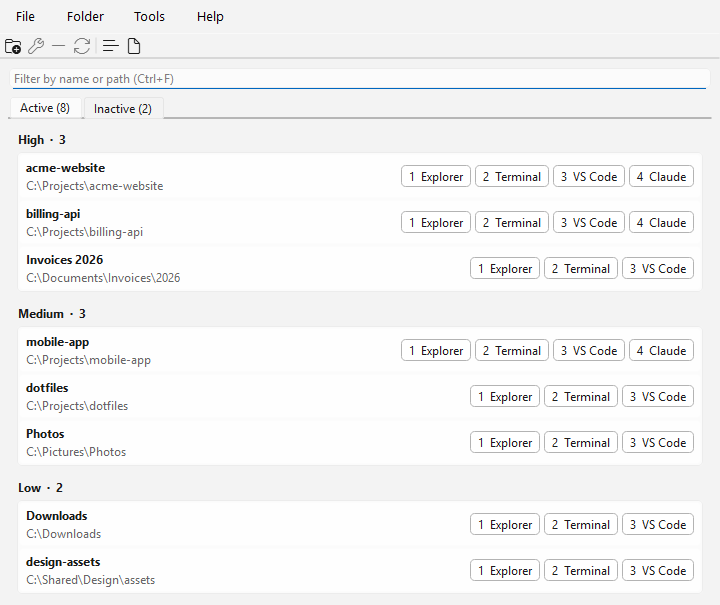
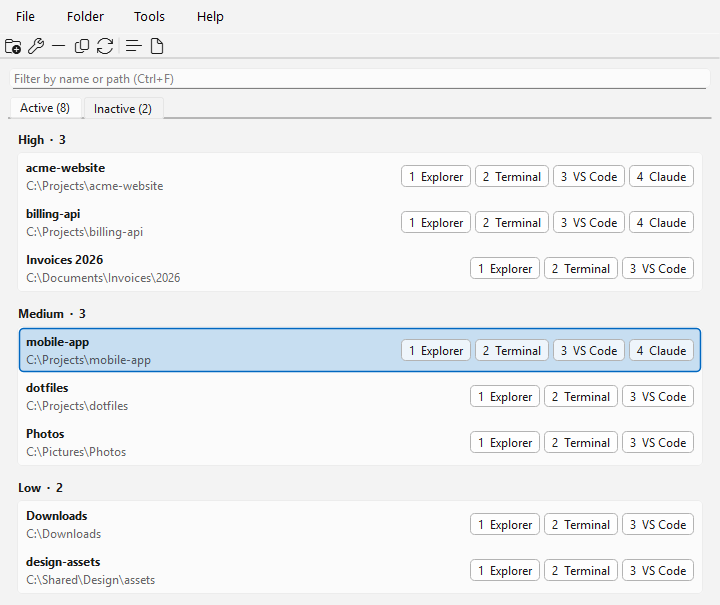
Add Copy path to the toolbar
On macOS the copy icon is drawn in code, like the other toolbar icons.
The Windows screenshot is regenerated.

Claude-Session: https://claude.ai/code/session_01EWrVwRmn16dzDbRohLNdot

Changed region(s): [[0.0, 0.5355, 0.9778, 0.6248], [0.0917, 0.0595, 0.2444, 0.0893], [0.0306, 0.0595, 0.0611, 0.0893]]

diff --git a/src/ui/MainWindow.cpp b/src/ui/MainWindow.cpp
@@ -193,6 +193,7 @@ void MainWindow::createActions()
     add->setIcon(Icons::toolIcon(QIcon::ThemeIcon::FolderNew));
     edit->setIcon(Icons::toolIcon(QIcon::ThemeIcon::DocumentProperties));
     remove->setIcon(Icons::toolIcon(QIcon::ThemeIcon::ListRemove));
+    copy->setIcon(Icons::toolIcon(QIcon::ThemeIcon::EditCopy));
     m_toggleAction->setIcon(Icons::toolIcon(QIcon::ThemeIcon::SyncSynchronizing));
     library->setIcon(Icons::toolIcon(QIcon::ThemeIcon::FormatJustifyLeft));
     settings->setIcon(Icons::toolIcon(QIcon::ThemeIcon::DocumentPageSetup));
@@ -216,6 +217,7 @@ void MainWindow::createActions()
     addButton(add, tr("Add folder"));
     addButton(edit, tr("Edit"));
     addButton(remove, tr("Remove"));
+    addButton(copy, tr("Copy path"));
     addButton(m_toggleAction, QString());
     toolbar->addSeparator();
     addButton(library, tr("Action library"));

diff --git a/src/ui/Icons.cpp b/src/ui/Icons.cpp
@@ -176,6 +176,18 @@ private:
             p->drawLine(QPointF(9.2, 4.2), QPointF(11.8, 6.8));
             break;
         }
+        case QIcon::ThemeIcon::EditCopy: {
+            // Two overlapping sheets; the back one shows only where the front one does not cover it.
+            p->drawRoundedRect(QRectF(5.5, 5.5, 8.5, 9), 1.2, 1.2);
+            QPainterPath back;
+            back.moveTo(3.5, 10.5);
+            back.lineTo(2, 10.5);
+            back.lineTo(2, 1.5);
+            back.lineTo(10.5, 1.5);
+            back.lineTo(10.5, 3.5);
+            p->drawPath(back);
+            break;
+        }
         case QIcon::ThemeIcon::ListRemove:
             p->drawEllipse(QPointF(8, 8), 6.25, 6.25);
             p->drawLine(QPointF(5, 8), QPointF(11, 8));
